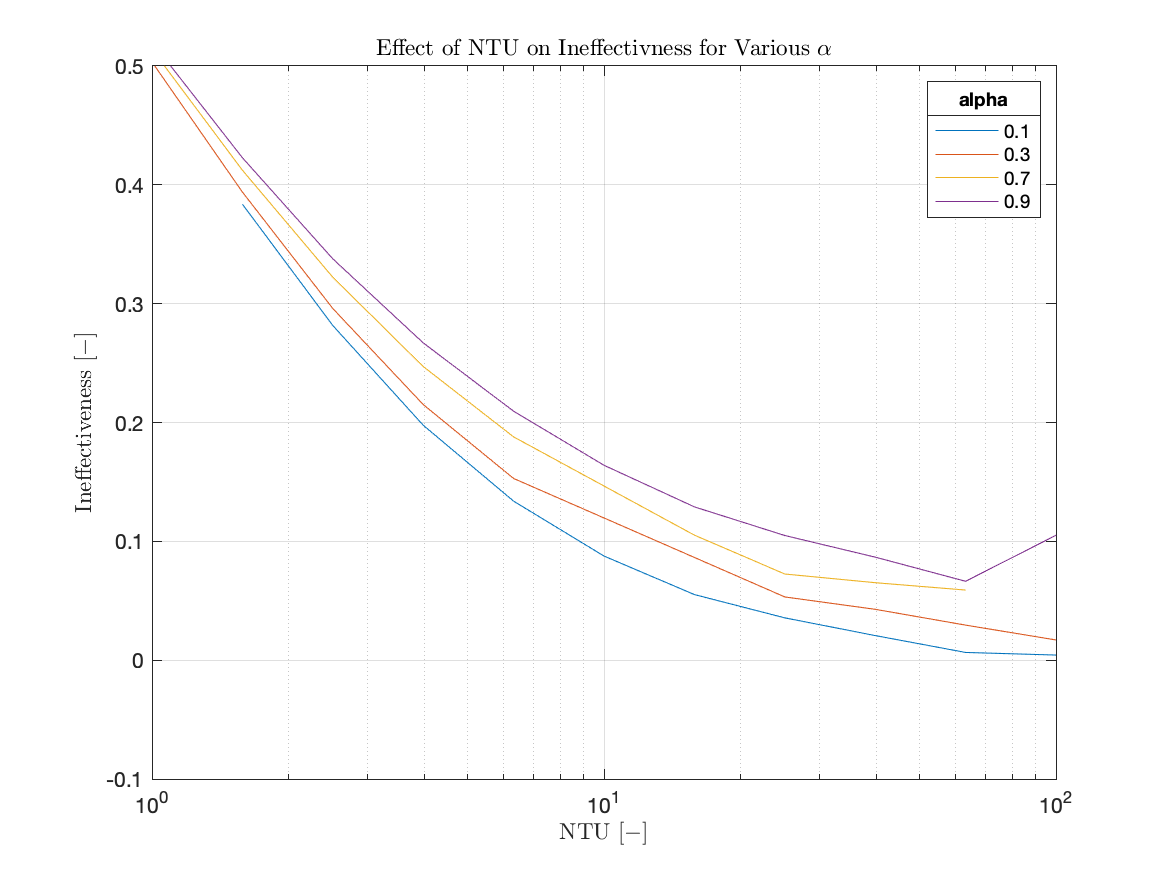
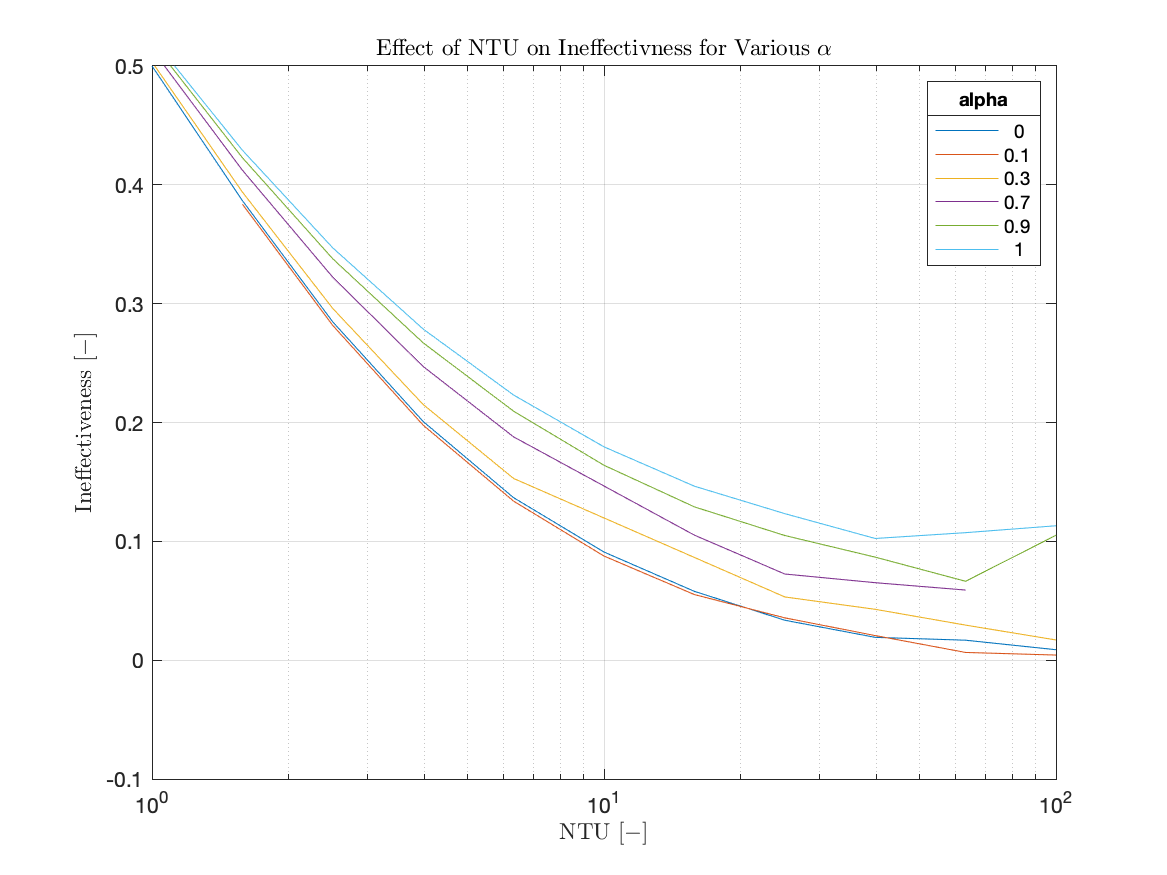
plots with alpha 0 & 1

diff --git a/Jeremy/sidesHX_2/Outputs/data_analysis.m b/Jeremy/sidesHX_2/Outputs/data_analysis.m
@@ -10,7 +10,7 @@ close all
 %values for which variable C will plotted
 C_r_index = [0.1 0.3 0.5 0.7 1];
 NTU_index = [1.5849 6.3096 25.119 63.096];
-alpha_index = [0.1 0.3 0.7 0.9];
+alpha_index = [0 0.1 0.3 0.7 0.9 1];
 
 %% plotting the effect of Area ratio
 
